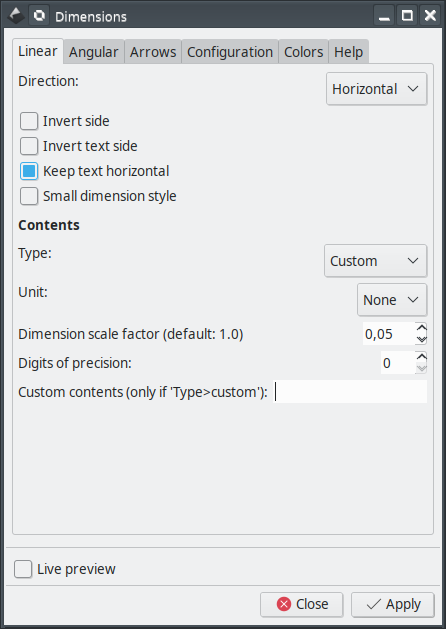
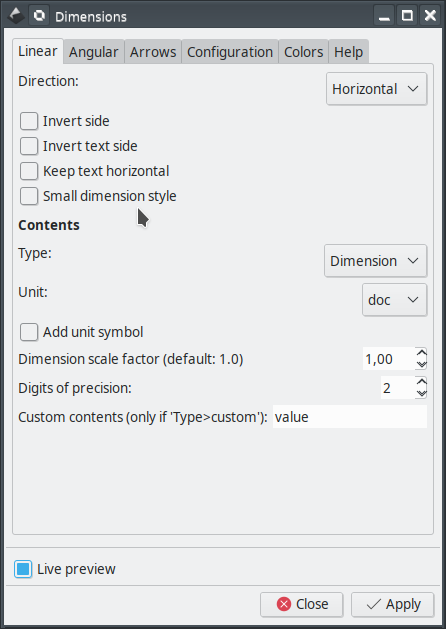
fixed unit selection for linear dimensions

diff --git a/dimensions.py b/dimensions.py
@@ -96,6 +96,7 @@ class Dimensions(inkBase.inkscapeMadeEasy):
     self.OptionParser.add_option("--LINsmalDimStyle", action="store", type="inkbool", dest="LINsmalDimStyle", default=False)
     
     self.OptionParser.add_option("--LINunit",action="store", type="string",dest="LINunit", default='none')
+    self.OptionParser.add_option("--LINunitSymbol", action="store", type="inkbool", dest="LINunitSymbol", default=False)
     self.OptionParser.add_option("--LINscaleDim", action="store", type="float", dest="LINscaleDim", default=1.0)
     self.OptionParser.add_option("--LINprecision", action="store", type="int", dest="LINprecision", default=2)
     self.OptionParser.add_option("--LINcustomContent",action="store", type="string",dest="LINcustomContent", default='none')
@@ -143,7 +144,8 @@ class Dimensions(inkBase.inkscapeMadeEasy):
     self.documentUnit = self.getDocumentUnit()
     
     #root_layer = self.current_layer
-    root_layer = self.document.getroot()    
+    #root_layer = self.document.getroot()
+    root_layer = self.getcurrentLayer()
     
     # colors
     [self.textColor,alpha]=inkDraw.color.parseColorPicker(so.textColorOption,so.colorPickerText)
@@ -198,7 +200,7 @@ class Dimensions(inkBase.inkscapeMadeEasy):
           continue
 
         self.drawLinDim(root_layer,[P1,P2],direction=so.LINdirection,label='Dim',invertSide=so.LINinvertSide,textType=so.LINcontentsType,
-                        customText=so.LINcustomContent,unit=so.LINunit,scale=so.LINscaleDim,precision=so.LINprecision,
+                        customText=so.LINcustomContent,unit=so.LINunit,unitSymbol=so.LINunitSymbol,scale=so.LINscaleDim,precision=so.LINprecision,
                         horizontalText=so.LINhorizontalText,invertTextSide=so.LINinvertTextSide,smallDimension=so.LINsmalDimStyle)
         if so.removeAuxLine:
           self.removeElement(element)
@@ -550,7 +552,7 @@ class Dimensions(inkBase.inkscapeMadeEasy):
       inkDraw.text.latex(self,group,valueStr,posDim,fontSize=self.fontSize,refPoint=justif,textColor=self.textColor,LatexCommands=' ',angleDeg=angle)
       
   def drawLinDim(self,parent,points,direction,label='Dim',invertSide=False,textType='dimension',customText='',
-                 unit=None,scale=1.0,precision=2,horizontalText=False,invertTextSide=False,smallDimension=False):
+                 unit=None,unitSymbol=False,scale=1.0,precision=2,horizontalText=False,invertTextSide=False,smallDimension=False):
     """ draws linear dimension
     
     parent: parent object
@@ -561,6 +563,7 @@ class Dimensions(inkBase.inkscapeMadeEasy):
     textType: type of text. values  'dimension' (default), 'custom'
     customText: text to be added. Used only if textType='custom'
     unit: dimmension unit. Used only if textType='dimension'. use None to ignore. Default: None
+    unitSymbol: add unit symbol to the text. Default: False
     scale: scale factor for the dimension. Used only if textType='dimension'. Default: 1.0
     precision: number of decimals. Used only if textType='dimension'
     horizontalText: places text horizontally despite dimension orientation. Default: False
@@ -597,18 +600,24 @@ class Dimensions(inkBase.inkscapeMadeEasy):
     #inkDraw.line.relCoords(parent, [(0.5*t_vector).tolist()],offset=P1.tolist(), lineStyle=inkDraw.lineStyle.setSimpleBlack(0.5))
         
     # text string 
+    
+    if unit == 'doc':
+          unit = self.documentUnit
+          
+          
     if textType=='dimension':
       value=np.linalg.norm(n_vector)
       
-      value=self.userUnit2unit(value,self.documentUnit)
+      value=self.userUnit2unit(value,unit)
               
       valueStr = '%.*f' % (precision, value*scale)
       
-      if unit and unit !='none':
-        if self.useLatex:
-          valueStr='\SI{%s}{%s}' %(valueStr,unit)
-        else:
-          valueStr=valueStr + ' ' + unit
+      if unitSymbol:
+        if unit and unit !='none':
+          if self.useLatex:
+            valueStr='\SI{%s}{%s}' %(valueStr,unit)
+          else:
+            valueStr=valueStr + ' ' + unit
     else:
       valueStr=customText
         

diff --git a/README.md b/README.md
@@ -113,9 +113,11 @@ This extension is presented in five tabs, **Linear**, **Angular**, **Arrows**, *
 
 <img src="docs/images/LIN_contents_type.png" width="400px"/>
 
-**Unit:** If you select `Type > Dimension`, this option adds unit to the dimension value. This option will just add the unit and will NOT scale the value.
+**Unit:** If you select `Type > Dimension`, this option selects the unit to the dimension value. The value ``doc`` will use current document unit.
 
 <img src="docs/images/LIN_units.png" width="400px"/>
+
+**Add unit symbol:** If you select `Type > Dimension`, this option adds the selected unit symbol
 
 **Dimension scale factor:** If you select `Type > Dimension`, this option will scale (multiply) the dimension value by the provided number here.
 
